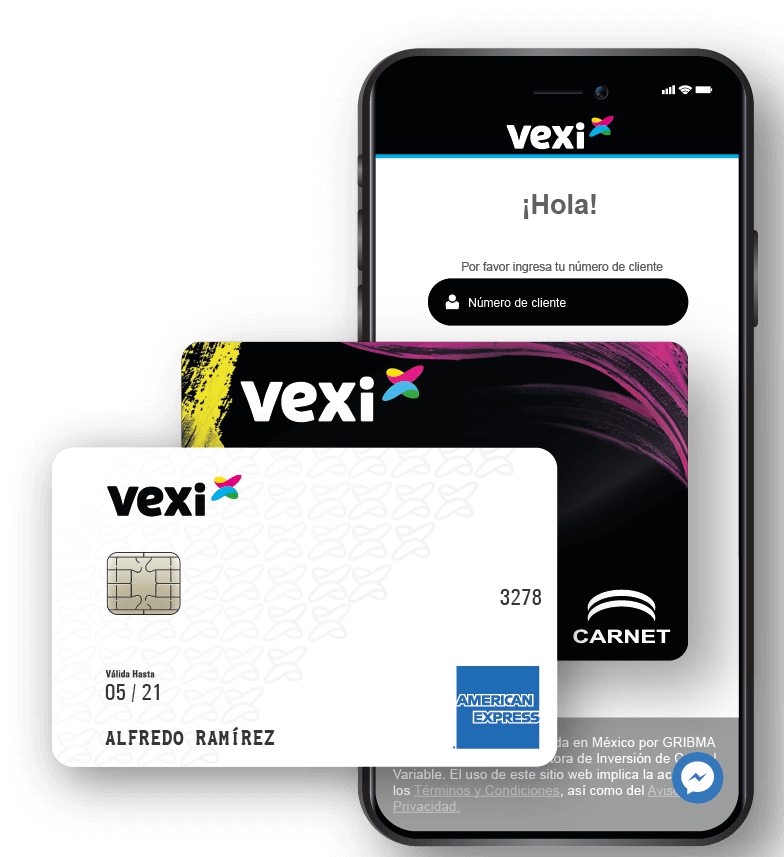
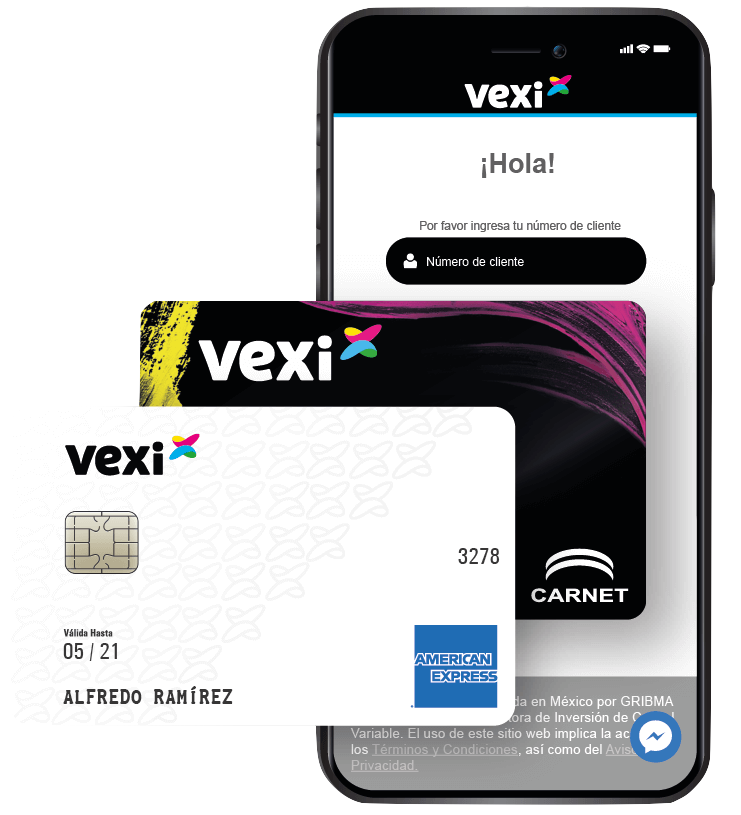
Tablet RWD

Changed region(s): [[0.031, 0.0, 1.0, 1.0]]

diff --git a/style.css b/style.css
@@ -7,7 +7,10 @@
 }
 
 html, body {
-    background-color: rgb(252, 252, 252);
+    background-color: rgb(254, 254, 254);
+}
+img {
+    display: block !important;
 }
 
 /* === Grid === */
@@ -258,8 +261,7 @@ nav li {
     position: fixed;
     right: 0;
     top: 0;
-    background-image: url(/sideNav/Live-Motion-Background.svg);
-    background-color: rgb(185, 13, 253, 0.7);
+    background-color: rgba(45, 0, 63, 0.712);
     background-blend-mode: lighten;
     overflow-x: hidden;
     z-index: 2;
@@ -372,6 +374,7 @@ nav li {
 
 #sec2 {
     margin: 0 0;
+    padding: 5%;
     background-image: url(./etc/background.svg);
     background-size: 500px;
     box-shadow: inset 0 0 20px 35px rgb(252, 252, 252), inset 0 0 0 500px rgba(252, 252, 252, 0.603);
@@ -894,7 +897,7 @@ footer {
         padding: 5%;
     }
     .title h1 {
-        font-size: 6.25vw;
+        font-size: 6.5vw;
         width: 55%;
     }
     .title form {
@@ -902,14 +905,14 @@ footer {
         align-items: baseline;
     }
     .title input {
-        font-size: 2.8vw;
+        font-size: 2.65vw;
         margin: 0;
     }
     .title button {
         width: 50%;
         margin-left: 5%;
         padding: 1.5%;
-        font-size: 3vw;
+        font-size: 2.65vw;
     }
 
 
@@ -922,6 +925,35 @@ footer {
         margin-right: 56%;
         width: 40%;
     }
+
+
+    /* ====== NavBar 2 ====== */
+
+    #nav2 {
+        height: 5%;
+    }
+    .nav-wrapper {
+        width: 45%;
+    }
+    #nav2 #img {
+        width: 35%;
+    }
+    #nav2 ul {
+        width: 93%;
+    }
+    #nav2 li {
+        font-size: 2.3vw;
+    }
+    #nav2 .nav-list #li-btn {
+        font-size: 2.2vw;
+        line-height: 1.25;
+    }
+    #li-btn {
+        width: 50%;
+        font-size: 2.2vw;
+    }
+
+
     
     /* ====== Benefits ====== */
 
@@ -942,7 +974,7 @@ footer {
     #benef div {
         width: 25%;
         height: 17vw;
-        margin: 1% 3%;
+        margin: 2% 3%;
     }
 
     /* ====== Tarjetas ====== */
@@ -1010,16 +1042,21 @@ footer {
     #extras p {
         font-size: 5vw;
     }
+    #extras > div div {
+        width: 35%;
+    }
     #extras li {
         text-align: justify;
         font-size: 2vw;
+        border-radius: 1vw;
+        margin: 5% 3%;
     }
     #extras .div-img {
         width: 28%;
     }
 
 
-    /* ====== Section Mentions ====== */
+    /* ====== Section Comments ====== */
 
     #sec2 h2 {
         margin: 0;
@@ -1027,8 +1064,8 @@ footer {
         font-size: 3.5vw;
     }
     #text {
-        width: 90%;
-        font-size: 3.7vw;
+        width: 100%;
+        font-size: 3.3vw;
     }
     #sec2 a {
         font-size: 2.7vw;
@@ -1048,7 +1085,7 @@ footer {
     }
 
 
-    /* ====== Section Mentions ====== */
+    /* ====== Section Needs ====== */
 
     #need {
         width: 100%;

diff --git a/index.html b/index.html
@@ -71,10 +71,10 @@
             </div>
             <div id="imgs">
                 <picture>
-                    <source media="(max-width: 1024px)" srcset="/altern.jpg">
+                    <source media="(max-width: 1024px)" srcset="/sec1/comb2.jpg">
                     <img loading="lazy" id="chic" src="/sec1/chic_small.jpg" alt="">
                 </picture>
-                <img loading="lazy" id="tarjeta" src="/sec1/tarjetaCarnetAmex2.png" alt="">
+                <!--<img loading="lazy" id="tarjeta" src="/sec1/tarjetaCarnetAmex2.png" alt="" style="z-index: -10;">-->
             </div>
         </section>
     </div>
